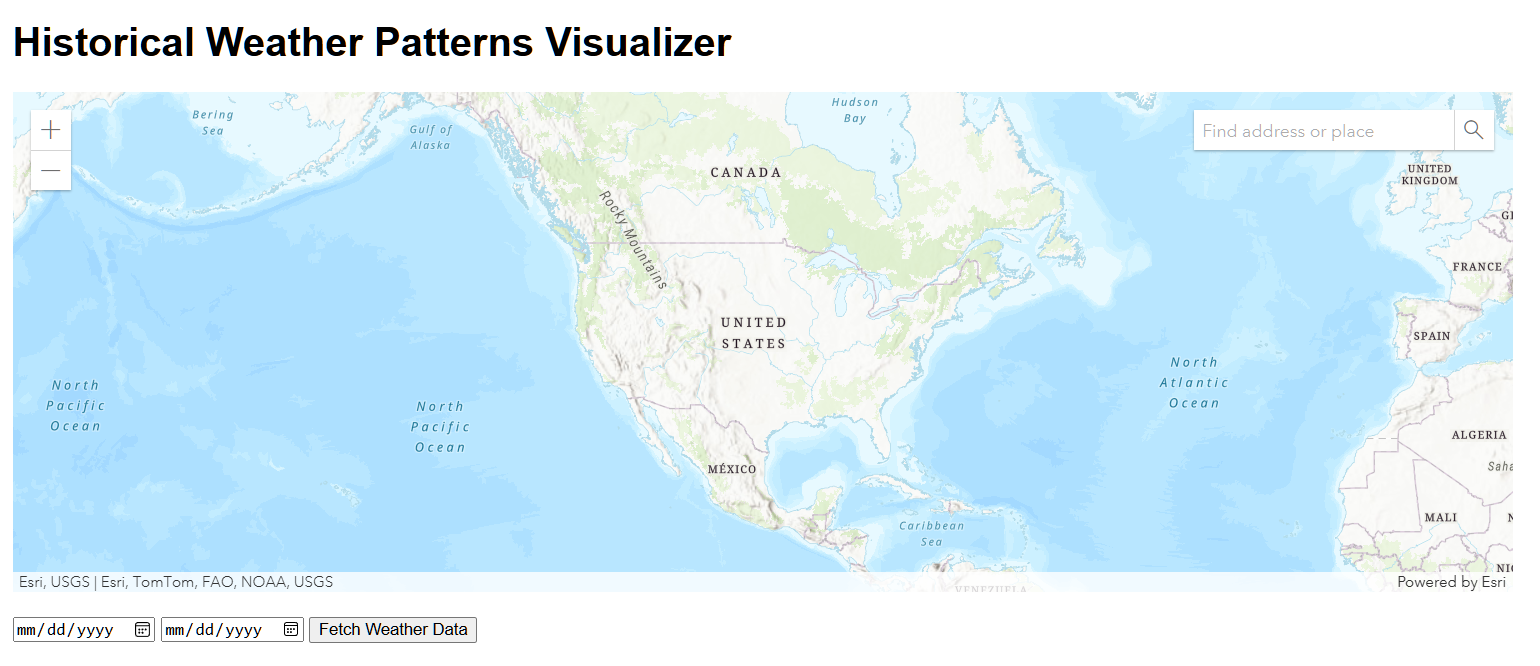
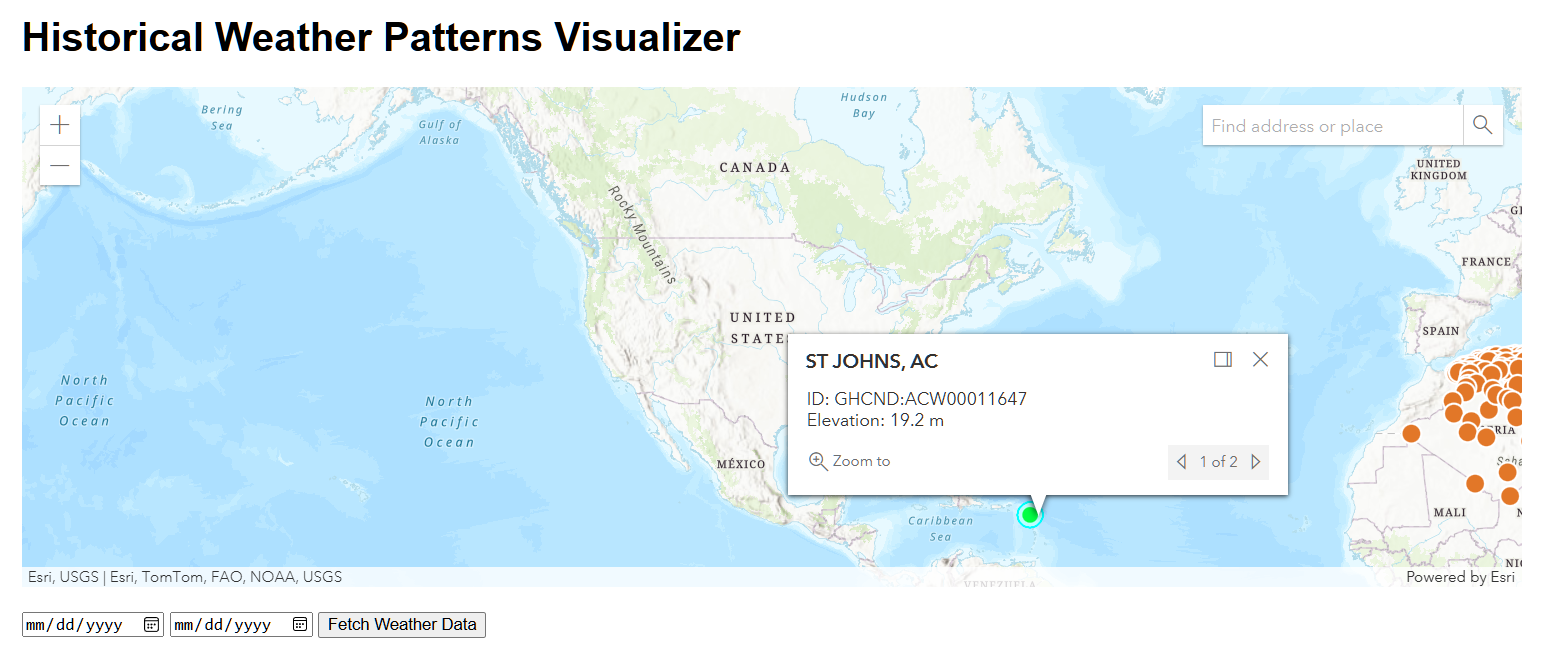
add tooltip to selected station

diff --git a/static/app.js b/static/app.js
@@ -3,8 +3,9 @@ require([
     "esri/views/MapView",
     "esri/widgets/Search",
     "esri/Graphic",
-    "esri/layers/GraphicsLayer"
-], function(Map, MapView, Search, Graphic, GraphicsLayer) {
+    "esri/layers/GraphicsLayer",
+    "esri/widgets/Popup"
+], function(Map, MapView, Search, Graphic, GraphicsLayer, Popup) {
     const map = new Map({
         basemap: "topo-vector"
     });
@@ -26,6 +27,7 @@ require([
     map.add(stationsLayer);
 
     let selectedStation = null;
+    let selectedGraphic = null;
 
     function addStationsToMap(stations) {
         stations.forEach(station => {
@@ -47,7 +49,11 @@ require([
             const pointGraphic = new Graphic({
                 geometry: point,
                 symbol: markerSymbol,
-                attributes: station
+                attributes: station,
+                popupTemplate: {
+                    title: station.name,
+                    content: `ID: ${station.id}<br>Elevation: ${station.elevation} m`
+                }
             });
 
             stationsLayer.add(pointGraphic);
@@ -65,17 +71,41 @@ require([
         view.hitTest(event).then(function(response) {
             const result = response.results[0];
             if (result && result.graphic) {
-                selectedStation = result.graphic.attributes.id;
-                console.log("Selected station:", selectedStation);
-            }
-        });
-    });
+                // Reset previously selected graphic
+                if (selectedGraphic) {
+                    selectedGraphic.symbol = {
+                        type: "simple-marker",
+                        color: [226, 119, 40],
+                        outline: {
+                            color: [255, 255, 255],
+                            width: 1
+                        }
+                    };
+                }
 
-    view.on("click", function(event) {
-        view.hitTest(event).then(function(response) {
-            const result = response.results[0];
-            if (result && result.graphic) {
-                selectedStation = result.graphic.attributes.stationid;
+                selectedStation = result.graphic.attributes.id;
+                selectedGraphic = result.graphic;
+
+                // Highlight the selected station
+                selectedGraphic.symbol = {
+                    type: "simple-marker",
+                    color: [0, 255, 0],
+                    outline: {
+                        color: [255, 255, 255],
+                        width: 2
+                    },
+                    size: 12
+                };
+
+                const stationName = result.graphic.attributes.name;
+                document.getElementById("stationInfo").innerHTML = `Selected station: ${stationName}`;
+                console.log("Selected station:", selectedStation);
+
+                // Show popup for the selected station
+                view.popup.open({
+                    features: [result.graphic],
+                    location: result.mapPoint
+                });
             }
         });
     });

diff --git a/static/styles.css b/static/styles.css
@@ -22,3 +22,7 @@ body {
 #weatherChart {
     max-height: 400px;
 }
+
+.esri-popup__header-title {
+    word-wrap: break-word;
+}
